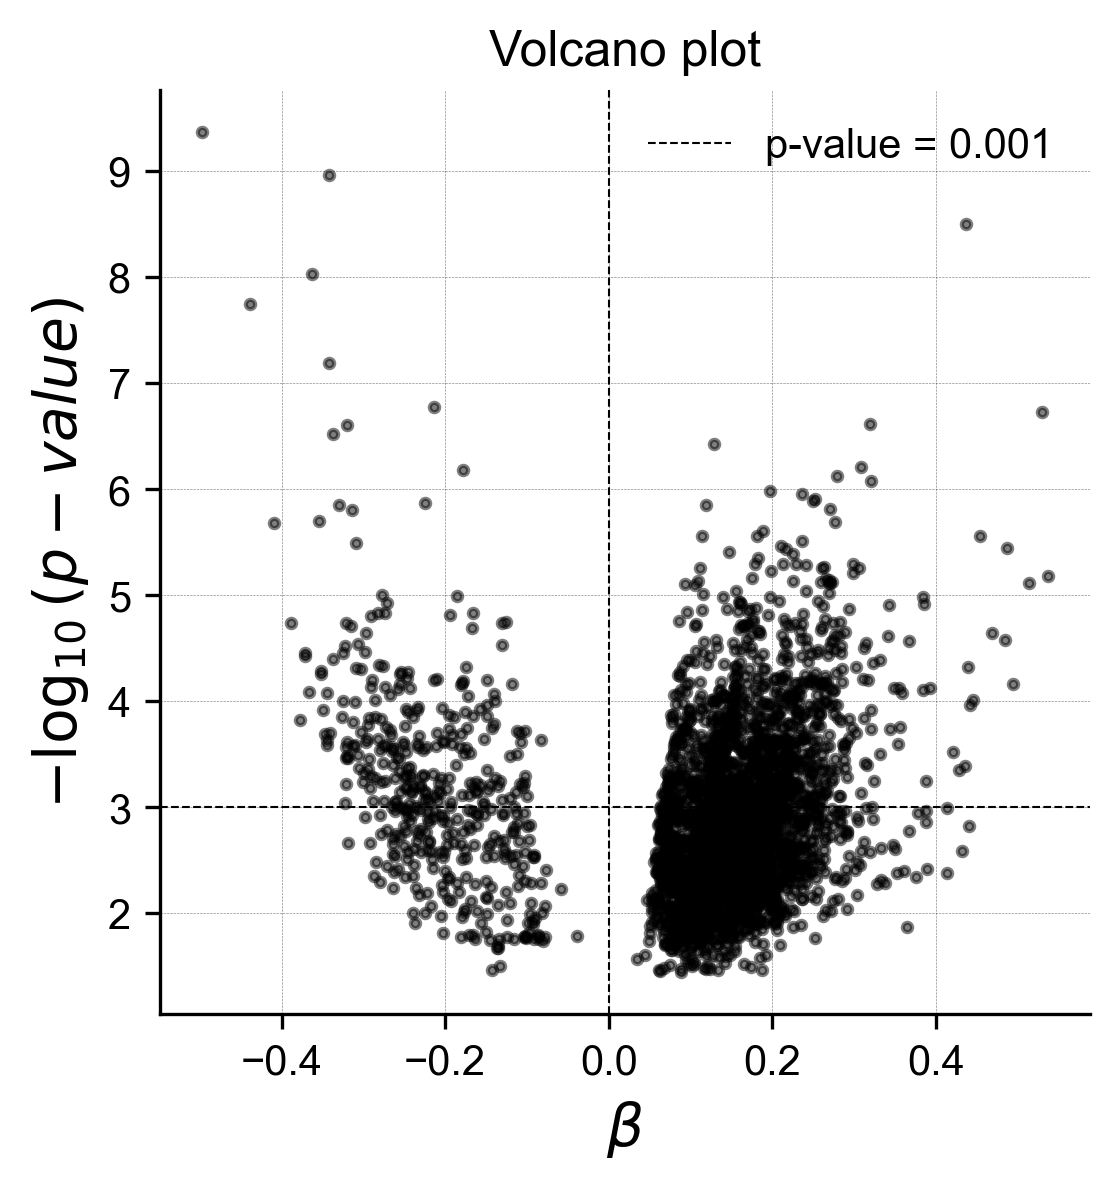
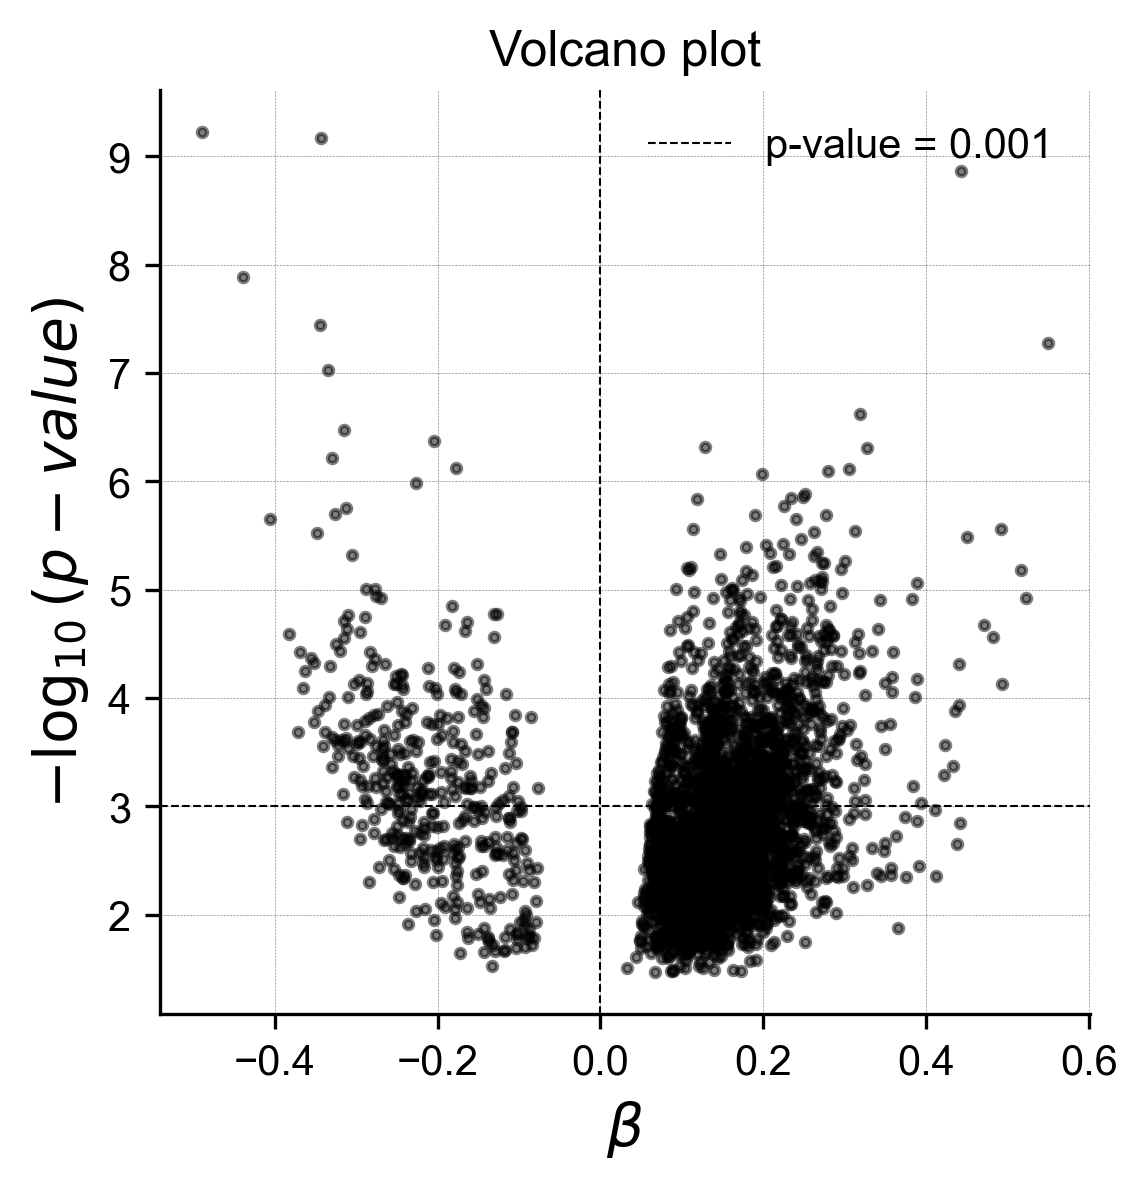
Update Classes For Residuals's linear model, experementation will need to be followed

diff --git a/src/resources/utils.py b/src/resources/utils.py
@@ -333,3 +333,72 @@ def pxPyScatterPlots(other:PairwiseCorrMatrix, limitsR: tuple[float], limitsMetr
         sortingColum (str): _description_
         ascending (bool): _description_
     """
+
+    #Dissect Code And Restructure
+
+    """    limitsR = (-0.01,0.01)
+    limitsGLS = (-0.5,0.5)
+    corum = 1
+    lung = True
+    sortingColumn = 'glsCoefficient'
+    ascending = False
+    sortingSymbol = '↑' if ascending else '↓'
+
+
+    baseModel :PairwiseCorrMatrix = read(PATH + '/datasetsTese/baseModelFiltered.pickle.gz')
+    glsPairwise :PairwiseCorrMatrix = read(PATH + '/datasetsTese/glsPairwiseCorr.pickle.gz')
+    ogProteomics :ProteinsMatrix = read(PATH + '/datasetsTese/ogProteomics.pickle.gz')
+    sampleSheet = pd.read_csv(PATH + '/datasetsTese/samplesheet.csv', index_col='model_id')
+
+    # Merging/sorting and quering
+
+    mergedData:pd.DataFrame = baseModel.data.merge(right = glsPairwise.data[['glsCoefficient']], on ='PPI')
+    mergedData = mergedData.loc[mergedData['corum'] == corum]
+    # mergedData = mergedData.loc[mergedData['biogrid'] == 0]
+    # mergedData = mergedData.loc[mergedData['string'] == 0]
+    # mergedData = mergedData.loc[mergedData['string400'] == 0]
+
+    
+    mergedData = mergedData.query('globalCorrelation < @limitsR[1] & globalCorrelation > @limitsR[0] & glsCoefficient > @limitsGLS[0] & glsCoefficient < @limitsGLS[1]').copy().sort_values([sortingColumn], ascending=[ascending])
+    print(mergedData)
+    
+    top5evidencePPI = mergedData.head(5)
+    indexes = list(top5evidencePPI.index)
+    setOfPPIs = [(proteins.split(';')[0], proteins.split(';')[1] ) for proteins in indexes]#Unpack PPIs of opposing inensities into tuples of proteins 
+    proteins =  [protein for sublist in setOfPPIs for protein in sublist]
+    print(setOfPPIs, proteins)
+    fig, ax = plt.subplots(10, 1, figsize=(20, 70))
+    for index, protein in enumerate(proteins):
+        
+        proteinExpression =  ogProteomics.data.loc[:,protein] #Get the protein expresion of the two proteins in the ppi
+        proteinExpression = proteinExpression.dropna(axis=0)
+
+        samples = list(proteinExpression.index) #Get all samples where both proteins have an expression value
+        mVSamples = [ogProteomics.data.loc[sample,:].isna().sum()  for sample in samples] #Count the #MV in each samples
+        meanValsSamples = [ogProteomics.data.loc[sample,:].mean()  for sample in samples] #Count the #MV in each samples
+        # replicateCountsSamples = [sampleSheet.loc[sample,'replicate_correlation']  for sample in samples] #Count the #MV in each samples
+        # print(replicateCountsSamples)
+
+        if not lung: # If we dont want a specific tisssue like lung
+
+            samples = [sample for sample in samples if sampleSheet.loc[sample, 'tissue']!='Lung']
+            proteinAB = proteinAB.loc[samples,:]
+        
+        tissues = [sampleSheet.loc[sample, 'tissue'] for sample in samples] #get all sample's tissues
+        
+
+
+
+        tissues = [TISSUEPALETTE[tissue] for tissue in tissues] #convert tissues to their respective colours
+
+
+        ax[index].scatter(proteinExpression, mVSamples, c = tissues)
+        ax[index].set_xlabel(protein)
+        ax[index].set_ylabel('Mean of Sample')
+        ax[index].set_title(f"Protein expression across samples, by Tissue, $r∈{limitsR}$, $β_{{GLS}}∈{limitsGLS}${sortingSymbol}, corum={corum}, lung={lung}")
+        ax[index].tick_params(labelsize=16)
+        legend = [plt.Line2D([0], [0], marker='o', color=TISSUEPALETTE[key], label=key) for key in TISSUEPALETTE]
+        ax[index].legend(handles = legend, fontsize=8, framealpha=0.2)
+
+    plt.savefig('../images/scatterPxvsMVTruePositives.png')
+"""

diff --git a/src/draft.py b/src/draft.py
@@ -7,71 +7,6 @@ import numpy as np
 
 if __name__ == '__main__':
 
-    limitsR = (-0.01,0.01)
-    limitsGLS = (-0.5,0.5)
-    corum = 1
-    lung = True
-    sortingColumn = 'glsCoefficient'
-    ascending = False
-    sortingSymbol = '↑' if ascending else '↓'
-
-
-    baseModel :PairwiseCorrMatrix = read(PATH + '/datasetsTese/baseModelFiltered.pickle.gz')
-    glsPairwise :PairwiseCorrMatrix = read(PATH + '/datasetsTese/glsPairwiseCorr.pickle.gz')
-    ogProteomics :ProteinsMatrix = read(PATH + '/datasetsTese/ogProteomics.pickle.gz')
-    sampleSheet = pd.read_csv(PATH + '/datasetsTese/samplesheet.csv', index_col='model_id')
-
-    # Merging/sorting and quering
-
-    mergedData:pd.DataFrame = baseModel.data.merge(right = glsPairwise.data[['glsCoefficient']], on ='PPI')
-    mergedData = mergedData.loc[mergedData['corum'] == corum]
-    # mergedData = mergedData.loc[mergedData['biogrid'] == 0]
-    # mergedData = mergedData.loc[mergedData['string'] == 0]
-    # mergedData = mergedData.loc[mergedData['string400'] == 0]
-
-    
-    mergedData = mergedData.query('globalCorrelation < @limitsR[1] & globalCorrelation > @limitsR[0] & glsCoefficient > @limitsGLS[0] & glsCoefficient < @limitsGLS[1]').copy().sort_values([sortingColumn], ascending=[ascending])
-    print(mergedData)
-    
-    top5evidencePPI = mergedData.head(5)
-    indexes = list(top5evidencePPI.index)
-    setOfPPIs = [(proteins.split(';')[0], proteins.split(';')[1] ) for proteins in indexes]#Unpack PPIs of opposing inensities into tuples of proteins 
-    proteins =  [protein for sublist in setOfPPIs for protein in sublist]
-    print(setOfPPIs, proteins)
-    fig, ax = plt.subplots(10, 1, figsize=(20, 70))
-    for index, protein in enumerate(proteins):
-        
-        proteinExpression =  ogProteomics.data.loc[:,protein] #Get the protein expresion of the two proteins in the ppi
-        proteinExpression = proteinExpression.dropna(axis=0)
-
-        samples = list(proteinExpression.index) #Get all samples where both proteins have an expression value
-        mVSamples = [ogProteomics.data.loc[sample,:].isna().sum()  for sample in samples] #Count the #MV in each samples
-        meanValsSamples = [ogProteomics.data.loc[sample,:].mean()  for sample in samples] #Count the #MV in each samples
-        # replicateCountsSamples = [sampleSheet.loc[sample,'replicate_correlation']  for sample in samples] #Count the #MV in each samples
-        # print(replicateCountsSamples)
-
-        if not lung: # If we dont want a specific tisssue like lung
-
-            samples = [sample for sample in samples if sampleSheet.loc[sample, 'tissue']!='Lung']
-            proteinAB = proteinAB.loc[samples,:]
-        
-        tissues = [sampleSheet.loc[sample, 'tissue'] for sample in samples] #get all sample's tissues
-        
-
-
-
-        tissues = [TISSUEPALETTE[tissue] for tissue in tissues] #convert tissues to their respective colours
-
-
-        ax[index].scatter(proteinExpression, mVSamples, c = tissues)
-        ax[index].set_xlabel(protein)
-        ax[index].set_ylabel('Mean of Sample')
-        ax[index].set_title(f"Protein expression across samples, by Tissue, $r∈{limitsR}$, $β_{{GLS}}∈{limitsGLS}${sortingSymbol}, corum={corum}, lung={lung}")
-        ax[index].tick_params(labelsize=16)
-        legend = [plt.Line2D([0], [0], marker='o', color=TISSUEPALETTE[key], label=key) for key in TISSUEPALETTE]
-        ax[index].legend(handles = legend, fontsize=8, framealpha=0.2)
-
-    plt.savefig('../images/scatterPxvsMVTruePositives.png')
 
 
 

diff --git a/src/resources/classes.py b/src/resources/classes.py
@@ -363,6 +363,41 @@ class ProteinsMatrix(MatrixData):
         pairwiseCorrData.data.index.name = 'PPI'
 
         return pairwiseCorrData
+    
+    def plotPxPyDrug(self, drug:str, ppi:str, drugResponse: DrugResponseMatrix, filepath:str):
+
+
+        drugResponse = drugResponse.binrise(inplace=False).T # The drug response matrix is binarised
+        samplesCommon = self.data.index.intersection(drugResponse.index) # We only want to plot the samples that are in both matrices
+        assert len(samplesCommon) > 0, 'There are no samples in common between the protein data and the drug response data'
+        drugResponse = drugResponse.loc[samplesCommon, drug]
+        proteinData = self.data.loc[samplesCommon, :]
+
+        if len(ppi.split('-')) > 0:
+            ppi = ppi.split('-')[0]
+        else:
+            print('ppi should be in format px;py-residual')
+        pxName = ppi.split(';')[0]
+        px = proteinData[pxName]
+        pyName = ppi.split(';')[1]
+        py = proteinData[pyName]
+
+        data = pd.DataFrame({'px': px, 'py': py, 'drugResponse': drugResponse})
+        colors = {0: 'green', 1: 'red'}
+
+        plt.scatter(data['px'], data['py'], c=data['drugResponse'].map(colors), label=[colors.values(), colors.keys()])
+        plt.title('Protein expression \n with Drug Response, >50% [drugMax]')
+        plt.xlabel(str(pxName))
+        plt.ylabel(str(pyName))
+        legend = [plt.Line2D([0], [0], marker='.', color=colors[key], label='Drug Response = ' + str(key)) for key in colors]
+        plt.legend(handles = legend, fontsize=8, framealpha=0.2)
+        plt.savefig(filepath)
+
+        
+        plt.close()
+
+
+
 
 
 class PairwiseCorrMatrix(MatrixData):
@@ -552,6 +587,22 @@ class ResiduesMatrix(MatrixData):
 
     def __init__(self, filepath: str=None, data: pd.DataFrame=None, **readerKwargs):
         super().__init__(filepath, data, **readerKwargs)
+
+    def getLinearModel(self, drugResponse: DrugResponseMatrix, samplesheet:pd.DataFrame, residualsType:str)->ResidualsLinearModel:
+
+        X = self.data.copy()
+        Y: pd.DataFrame = drugResponse.data.T # Samples should be rows and not columns
+        
+        confoundingFactors = samplesheet[['tissue', 'growth_properties']].dropna(axis=0, how='any')
+        confoundingFactors['hymCellLine'] = (confoundingFactors['tissue'] == 'Haematopoietic and Lymphoid').astype(int)
+        confoundingFactors['lung'] = (confoundingFactors['tissue'] == 'lung').astype(int)
+        confoundingFactors = pd.get_dummies(confoundingFactors, columns=['growth_properties'], prefix='', prefix_sep='')
+        confoundingFactors = confoundingFactors.drop(columns=['tissue'])
+
+        regressor = ResidualsLinearModel(Y, X, confoundingFactors, residualsType)
+        regressor.fit_matrix()
+
+        return regressor
 
 
 
@@ -784,9 +835,19 @@ class ResidualsLinearModel(GeneralLinearModel):
         # Title
         plt.title("Volcano plot")
         plt.legend()
-
+        self.volcanoPath = filepath
         plt.savefig(filepath, bbox_inches="tight")
+        plt.close()
 
+    def plotSignificantAssociation(self, proteomics:ProteinsMatrix, drugResponse:DrugResponseMatrix, filepath:str):
+
+        results = self.data.copy()
+
+        results = results.sort_values(by='pval', ascending=True)
+        drug = results['y_id'].iloc[0]
+        ppi  = results['x_id'].iloc[0]
+
+        proteomics.plotPxPyDrug(drug, ppi, drugResponse,filepath)
 
     
 

diff --git a/src/main.py b/src/main.py
@@ -2,7 +2,7 @@
 import pandas as pd
 import matplotlib.pyplot as plt
 import time as t
-from resources import ResidualsLinearModel, read, PATH
+from resources import ResidualsLinearModel, read, PATH, ProteinsMatrix
 
 
 
@@ -14,23 +14,13 @@ from resources import ResidualsLinearModel, read, PATH
 if __name__ == '__main__':
 
     drugRes = read(PATH + '/datasetsTese/drugResponse.pickle.gz')
-
-    Y: pd.DataFrame = drugRes.data.T # Samples should be rows and not columns
-    Y = Y.fillna(Y.mean(axis=0)) 
-
-    residuals = read(PATH + '/datasetsTese/residualsMatrixGLSGreater0.65.pickle.gz')
-
-    X = residuals.data
-
-    samplesheet = pd.read_csv(PATH + '/datasetsTese/samplesheet.csv', index_col='model_id')
-    otherCovariates = samplesheet[['tissue', 'growth_properties']].dropna(axis=0, how='any')
-    otherCovariates['hymCellLine'] = (otherCovariates['tissue'] == 'Haematopoietic and Lymphoid').astype(int)
-    otherCovariates['lung'] = (otherCovariates['tissue'] == 'lung').astype(int)
-    otherCovariates = pd.get_dummies(otherCovariates, columns=['growth_properties'], prefix='', prefix_sep='')
-    otherCovariates = otherCovariates.drop(columns=['tissue'])
-
-
-    regressor = ResidualsLinearModel(Y, X, otherCovariates, residualsType='malahanobis')
-    print(regressor.fit_matrix())
-    regressor.volcanoPlot(filepath='testVolcano.png')
     
+
+
+    regressionRes: ResidualsLinearModel = read(PATH + '/datasetsTese/regressionGlSGreater0.65MeanProteomics.pickle.gz')
+
+
+    ogProteomics = read(PATH + '/datasetsTese/ogProteomics.pickle.gz')
+    meanProteomics = read(PATH + '/datasetsTese/meanProteomics.pickle.gz')  
+
+    regressionRes.plotSignificantAssociation(meanProteomics, drugRes, 'pxpyTestingEffectSizeOfResidualsGLSGreater0.65ProteinMean.png')
